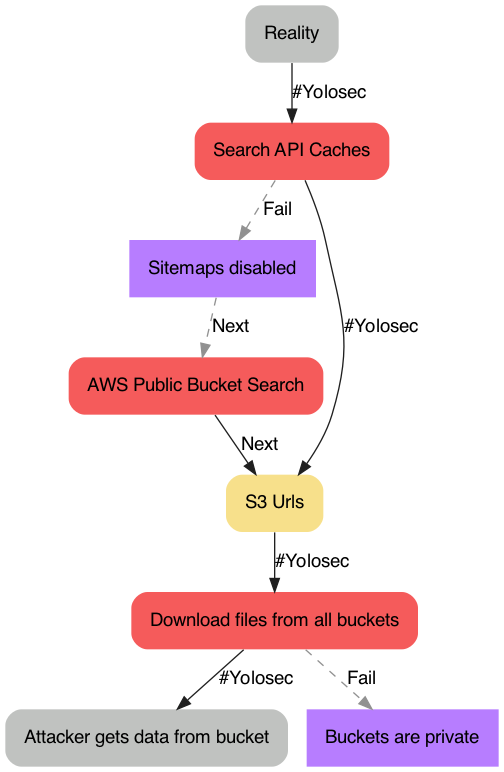
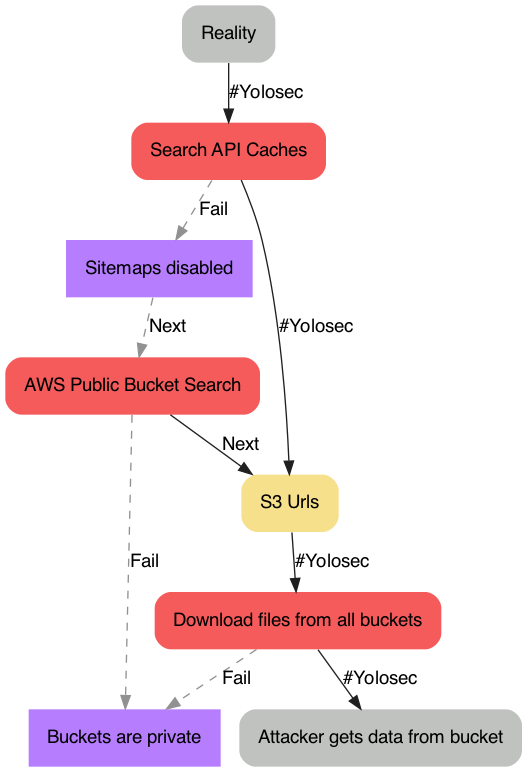
Added more detail to readme

diff --git a/exampleTree_complexS3.py b/exampleTree_complexS3.py
@@ -65,6 +65,7 @@ if __name__ == "__main__":
         pSuccess=1.0
     )
     downloadFiles.createEdge(bucketACLs, label="Fail")
+    awsPublicBucketSearch.createEdge(bucketACLs, label="Fail")
 
     style = renderer.loadStyle('style.json')
     renderer.render(

diff --git a/README.md b/README.md
@@ -45,6 +45,18 @@ deactivate
 ## Methodology
 In messing with this idea, I've found the easiest approach is to map the existing paths out first, without consideration for things you might implement. To see what that looks like checkout [exampleTree_simpleS3.py](exampleTree_simpleS3.py). After this one can either create a new tree with potential mitigations _or_ add them to the existing tree, for examples purposes I chose the former; [exampleTree_complexS3.py](exampleTree_complexS3.py).
 
+## Node types
+There are serveral types of node [modelled](models.py), they're mostly self documenting.
+* Action: An attacker action expected to achieve some result
+* Detect: A detection, a node that represents our (security team) ability to detect that action
+* Block: Our ability to block that action
+* Discovery: Knowledge that an attacker gains through successful completion of an action.
+
+## Line types
+There are two types of line, solid and dashed (note, these can be changed in [style.json](style.json)). 
+* Solid: This path exists today
+* Dashed: This path represents what would happen if we implemented a control that is currently not implemented.
+
 The last line in each of those files is a call to render the tree:
 ```
     renderer.render(
